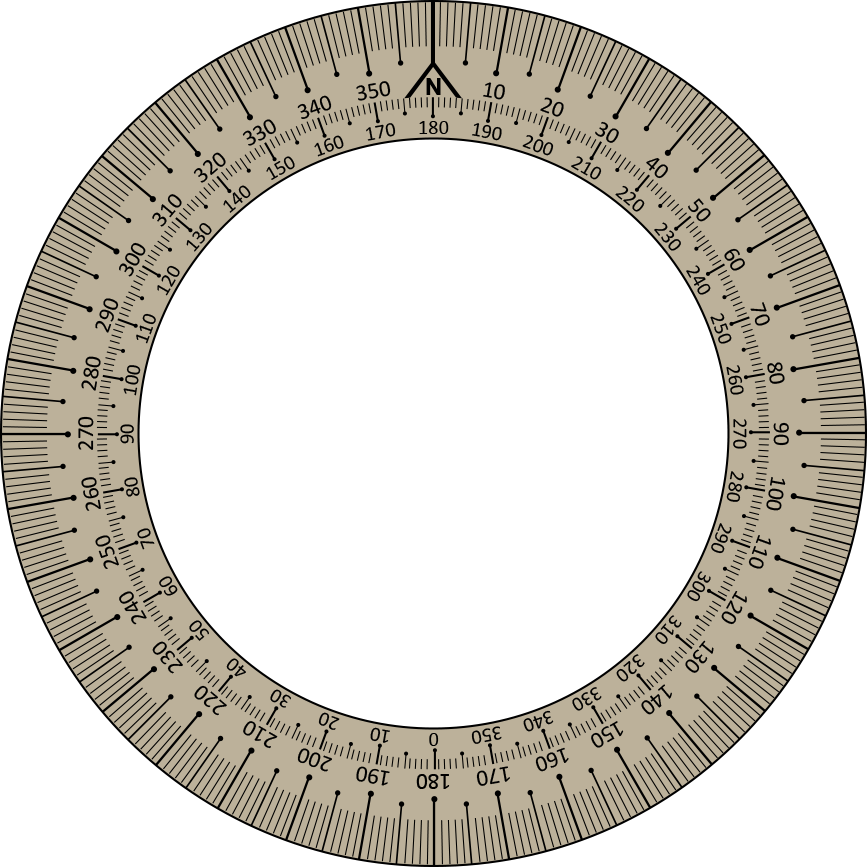
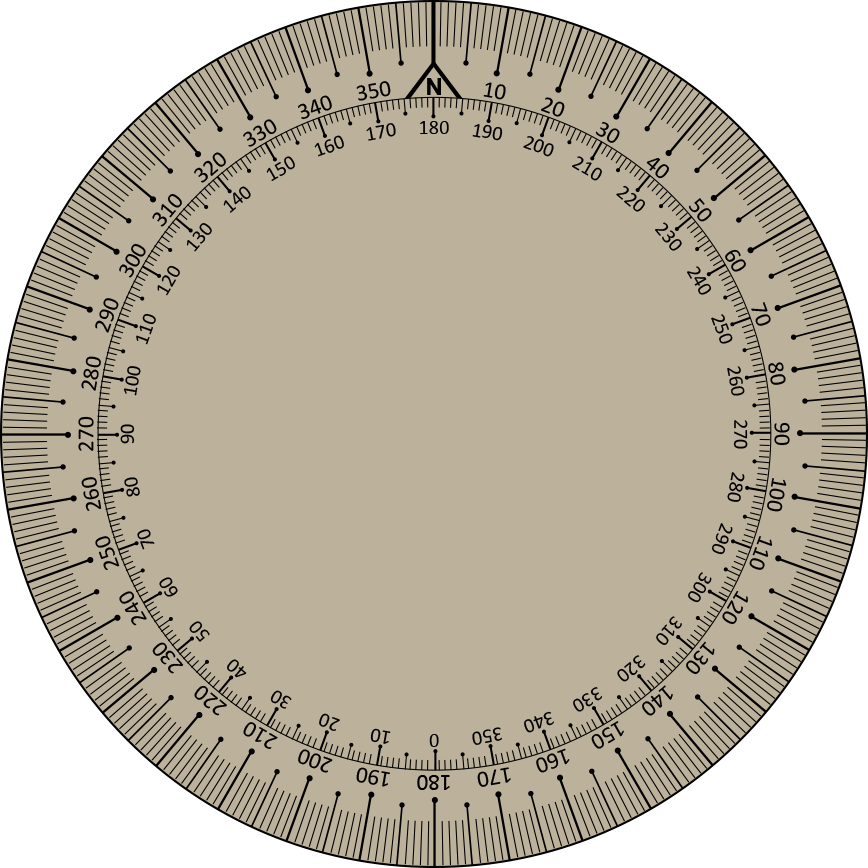
New images, new code

diff --git a/main.js b/main.js
@@ -13,6 +13,69 @@
       y: 0
     },
     R2D = 180 / Math.PI,
+    rot = document.getElementById('attack_disc');
+
+  init = function() {
+    rot.addEventListener("mousedown", start, false);
+    $(document).bind('mousemove', function(event) {
+      if (active === true) {
+        event.preventDefault();
+        rotate(event);
+      }
+    });
+    $(document).bind('mouseup', function(event) {
+      event.preventDefault();
+      stop(event);
+    });
+  };
+
+  start = function(e) {
+    e.preventDefault();
+    var bb = this.getBoundingClientRect(),
+      t = bb.top,
+      l = bb.left,
+      h = bb.height,
+      w = bb.width,
+      x, y;
+    center = {
+      x: l + (w / 2),
+      y: t + (h / 2)
+    };
+    x = e.clientX - center.x;
+    y = e.clientY - center.y;
+    startAngle = R2D * Math.atan2(y, x);
+    return active = true;
+  };
+
+  rotate = function(e) {
+    e.preventDefault();
+    var x = e.clientX - center.x,
+      y = e.clientY - center.y,
+      d = R2D * Math.atan2(y, x);
+    rotation = d - startAngle;
+    return rot.style.webkitTransform = "rotate(" + (angle + rotation) + "deg)";
+  };
+
+  stop = function() {
+    angle += rotation;
+    return active = false;
+  };
+
+  init();
+
+}).call(this);
+
+(function() {
+  var init, rotate, start, stop,
+    active = false,
+    angle = 0,
+    rotation = 0,
+    startAngle = 0,
+    center = {
+      x: 0,
+      y: 0
+    },
+    R2D = 180 / Math.PI,
     rot = document.getElementById('course_disc');
 
   init = function() {
@@ -77,6 +140,69 @@
     },
     R2D = 180 / Math.PI,
     rot = document.getElementById('aob_disc');
+
+  init = function() {
+    rot.addEventListener("mousedown", start, false);
+    $(document).bind('mousemove', function(event) {
+      if (active === true) {
+        event.preventDefault();
+        rotate(event);
+      }
+    });
+    $(document).bind('mouseup', function(event) {
+      event.preventDefault();
+      stop(event);
+    });
+  };
+
+  start = function(e) {
+    e.preventDefault();
+    var bb = this.getBoundingClientRect(),
+      t = bb.top,
+      l = bb.left,
+      h = bb.height,
+      w = bb.width,
+      x, y;
+    center = {
+      x: l + (w / 2),
+      y: t + (h / 2)
+    };
+    x = e.clientX - center.x;
+    y = e.clientY - center.y;
+    startAngle = R2D * Math.atan2(y, x);
+    return active = true;
+  };
+
+  rotate = function(e) {
+    e.preventDefault();
+    var x = e.clientX - center.x,
+      y = e.clientY - center.y,
+      d = R2D * Math.atan2(y, x);
+    rotation = d - startAngle;
+    return rot.style.webkitTransform = "rotate(" + (angle + rotation) + "deg)";
+  };
+
+  stop = function() {
+    angle += rotation;
+    return active = false;
+  };
+
+  init();
+
+}).call(this);
+
+(function() {
+  var init, rotate, start, stop,
+    active = false,
+    angle = 0,
+    rotation = 0,
+    startAngle = 0,
+    center = {
+      x: 0,
+      y: 0
+    },
+    R2D = 180 / Math.PI,
+    rot = document.getElementById('bearing_lead_disc');
 
   init = function() {
     rot.addEventListener("mousedown", start, false);

diff --git a/main.css b/main.css
@@ -60,7 +60,9 @@ body {
 
 .wrapper {
 	height: 100%;
+	max-height: 960px;
 	width: 100%;
+	max-width: 960px;
 	position: relative;
 	margin: auto;
 }
@@ -70,13 +72,15 @@ body {
 	background-size: contain;
 	background-repeat: no-repeat;
 	background-position: center;
-	width: 100%;
-	max-width: 1123px;
-	height: 100%;
-	max-height: 1123px;
+	width: 30vw;
+	max-width: 1124px;
+	height: 30vw;
+	max-height: 1124px;
 	margin: auto;
   	position: absolute;
   	top: 0; left: 0; bottom: 0; right: 0;
+  	transform-origin:50% 50%;
+    border-radius:50%;
 }
 
 #course_disc {
@@ -84,13 +88,15 @@ body {
 	background-size: contain;
 	background-repeat: no-repeat;
 	background-position: center;
-	width: 80%;
-	max-width: 867px;
-	height: 80%;
-	max-height: 867px;
+	width: 23vw;
+	max-width: 868px;
+	height: 23vw;
+	max-height: 868px;
 	margin: auto;
   	position: absolute;
   	top: 0; left: 0; bottom: 0; right: 0;
+  	transform-origin:50% 50%;
+    border-radius:50%;
 }
 
 #aob_disc {
@@ -98,13 +104,35 @@ body {
 	background-size: contain;
 	background-repeat: no-repeat;
 	background-position: center;
-	width: 60%;
+	width: 15.5vw;
 	max-width: 592px;
-	height: 60%;
+	height: 15.5vw;
 	max-height: 592px;
 	margin: auto;
   	position: absolute;
   	top: 0; left: 0; bottom: 0; right: 0;
     transform-origin:50% 50%;
     border-radius:50%;
+}
+
+#bearing_lead_disc {
+	background-color: red;
+	/*background-image: url('images/4.png');*/
+	background-size: contain;
+	background-repeat: no-repeat;
+	background-position: center;
+	width: 23.5vw;
+	max-width: 884px;
+	height: 23.5vw;
+	max-height: 884px;
+	margin: auto;
+  	position: absolute;
+  	top: 0; left: 0; bottom: 0; right: 0;
+  	/*clip-path: path('M441.77,425.5c20,0,19.5,18.5,19.5,18.5c0,27,155.5,86.5,159,88s3.61,5.03,1.78,8.5 c-8.07,15.27-45.11,77.9-124.18,99.85c0,0-3.05,0.81-3.32,2.67c-0.38,2.6-27.27,233.45-27.88,237.47c-0.27,1.76-0.27,2.84-3.35,2.97 c-14.18,0.56-16.1,0.53-21.37,0.53c-5.27,0-7.19,0.03-21.37-0.53c-3.08-0.12-3.09-1.2-3.35-2.97 c-0.61-4.03-27.5-234.88-27.88-237.47c-0.27-1.86-3.32-2.69-3.32-2.69h0c-79.01-21.98-116.01-84.57-124.08-99.84 c-1.83-3.47-1.72-7,1.78-8.5s159-61,159-88c0,0-0.5-18.5,19.5-18.5');*/
+  	clip-path: url('#myPath');
+}
+
+#bearing_lead_disc svg {
+	width: 100%;
+	height: 100%;
 }

diff --git a/index.html b/index.html
@@ -11,6 +11,21 @@
 	<div id="attack_disc"></div>
 	<div id="course_disc"></div>
 	<div id="aob_disc"></div>
+	<div id="bearing_lead_disc">
+		
+
+
+
+	</div>
+	<svg xmlns="http://www.w3.org/2000/svg" width="0" height="0">
+			<defs>
+	  <clipPath id="myPath" clipPathUnits="objectBoundingBox">
+	  	<path fill="red" d="M441.77 425.5c20 0 19.5 18.5 19.5 18.5 0 27 155.5 86.5 159 88s3.61 5.03 1.78 8.5c-8.07 15.27-45.11 77.9-124.18 99.85 0 0-3.05.81-3.32 2.67-.38 2.6-27.27 233.45-27.88 237.47-.27 1.76-.27 2.84-3.35 2.97-14.18.56-16.1.53-21.37.53s-7.19.03-21.37-.53c-3.08-.12-3.09-1.2-3.35-2.97-.61-4.03-27.5-234.88-27.88-237.47-.27-1.86-3.32-2.69-3.32-2.69-79.01-21.98-116.01-84.57-124.08-99.84-1.83-3.47-1.72-7 1.78-8.5s159-61 159-88c0 0-.5-18.5 19.5-18.5"/>
+	  </clipPath>
+	</defs>
+	</svg>
+
+
 </div>
 <script type="text/javascript" src="main.js"></script>
 </body>
